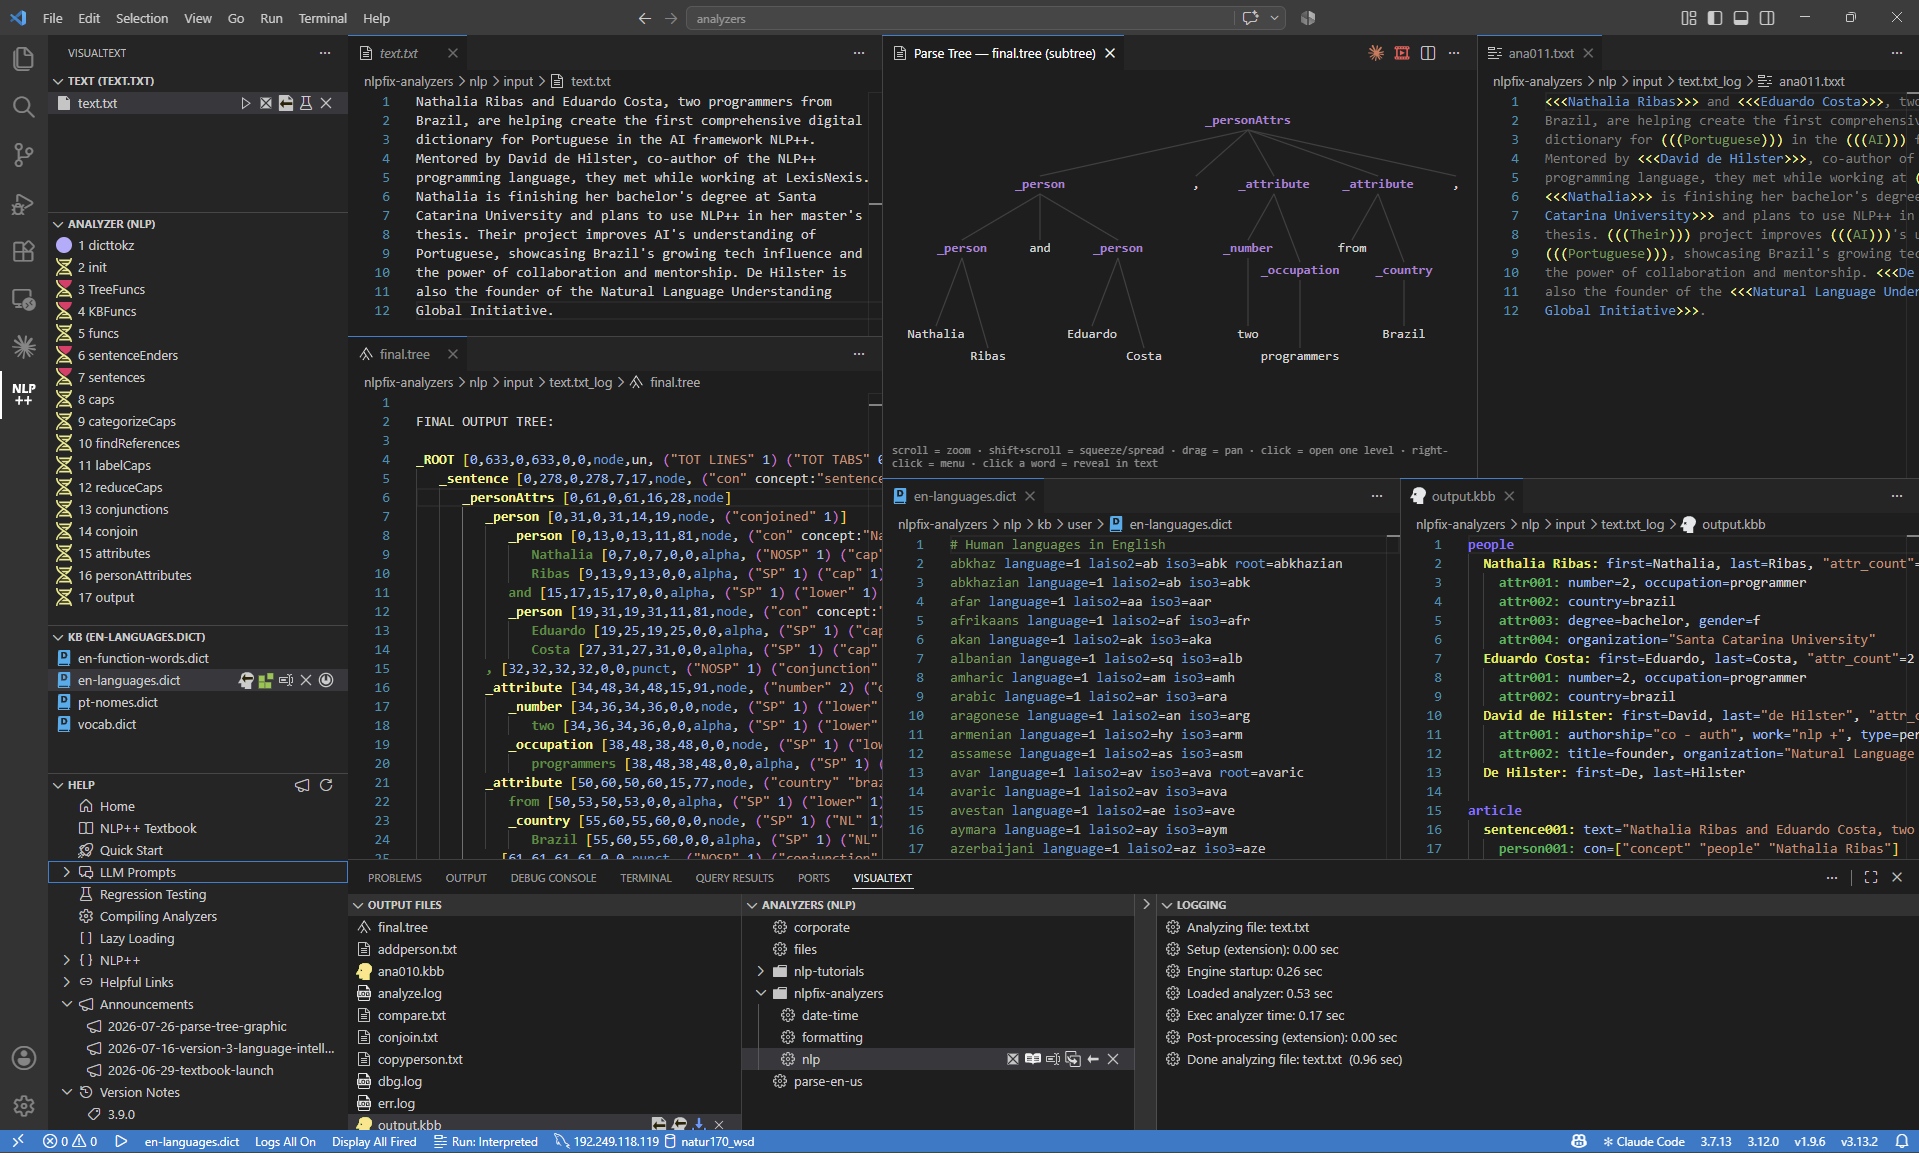
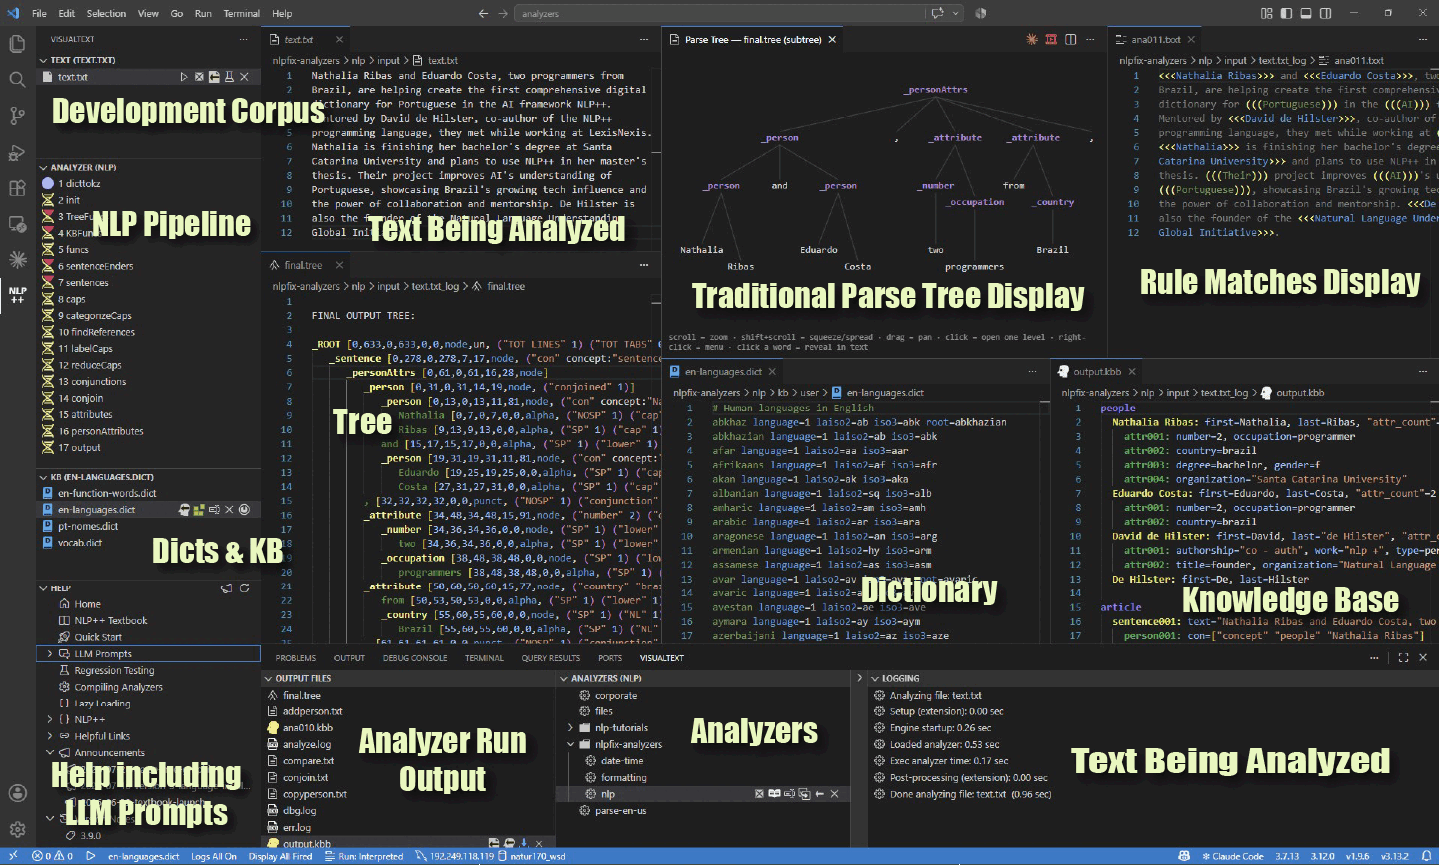
docs: labeled hero screenshot in the README (3.12.5)
The screenshot at the top of the README showed the whole environment but
left a newcomer to work out which panel was which. Every region is now
labeled in the image itself -- development corpus, NLP pipeline, text
being analyzed, parse tree graphic, rule matches, output tree, dicts and
KB, knowledge base output, analyzer run output, analyzer list, help
including LLM prompts, and the run log.

The click-through to the full-size image on raw.githubusercontent.com is
unchanged; the file keeps its name, so only the bytes and the alt text
moved. The alt text now enumerates the labels rather than describing the
old unlabeled layout, which is what a screen reader and the marketplace
listing actually read.

The export arrived at 1356 KB -- five times the previous file despite
being lower resolution (1440x865 against 1919x1153), carrying 154,259
unique colors from having been rescaled. Palettizing to 256 colors gives
428 KB with no visible difference on flat editor chrome, which keeps this
from adding a megabyte to every install. Lossless recompression alone
recovered almost nothing, so the color count was the whole problem.

Also folds in c9cc889, which was left behind on the 3.12.4 branch when
PR #1124 merged: .vscodeignore now keeps the test-harness build output
(out-format/, out-language/, out-treeview/) out of the package. That is
why this .vsix carries 184 files rather than 208.

diff --git a/CHANGELOG.md b/CHANGELOG.md
@@ -3,6 +3,13 @@ All notable changes to the [VSCode NLP++ extension](http://vscode.visualtext.org
 
 Check [Keep a Changelog](http://keepachangelog.com/) for recommendations on how to structure this file.
 
+### 3.12.5
+A labeled screenshot at the top of the README.
+
+- **The hero screenshot now names what you are looking at.** The previous image showed the full environment but left a newcomer to work out which panel was which, and the caption could only list them in prose. Each region is now labeled in the image itself: the development corpus, the NLP pipeline of passes, the text being analyzed, the parse tree graphic, the rule matches display, the output tree, dictionaries and knowledge bases, the knowledge base output, analyzer run output, the analyzer list, help including LLM prompts, and the run log. Clicking it still opens the full-size view.
+- The image is palettized to 256 colors, which is visually identical on flat editor chrome and keeps the package from growing by a megabyte.
+- Also folds in a `.vscodeignore` fix from the 3.12.4 branch that never reached master: the test-harness build output (`out-format/`, `out-language/`, `out-treeview/`) is kept out of the `.vsix`.
+
 ### 3.12.4
 Block comments are live: the NLP++ engine now parses `/* */`.
 

diff --git a/README.md b/README.md
@@ -2,7 +2,7 @@
 
 Build, debug, and ship **glass-box** text analyzers in Visual Studio Code.
 
-[![The NLP++ extension in VS Code: analyzer sequence, source text, parse tree graphic, dictionaries, knowledge-base output, and the run log](resources/VSCodeNLP.png)](https://raw.githubusercontent.com/VisualText/vscode-nlp/master/resources/VSCodeNLP.png)
+[![The NLP++ extension in VS Code, with each panel labeled: the development corpus, the NLP pipeline of analyzer passes, the text being analyzed, a traditional parse tree display, the rule matches display, the output tree, dictionaries and knowledge bases, the knowledge base output, help including LLM prompts, analyzer run output, the analyzer list, and the run log](resources/VSCodeNLP.png)](https://raw.githubusercontent.com/VisualText/vscode-nlp/master/resources/VSCodeNLP.png)
 
 <sub>*Click the screenshot for a full-size view.*</sub>
 
